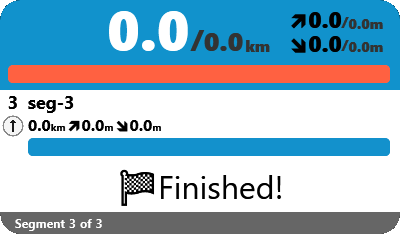
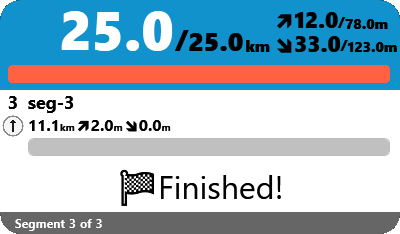
Improve screenshot for changelog

Changed region(s): [[0.06, 0.5085, 0.99, 0.688], [0.15, 0.0299, 1.0, 0.2393], [0.69, 0.0299, 0.99, 0.1496]]

diff --git a/test/RoadCaptain.Runner.Tests.Unit/Views/InGameWindowTests.cs b/test/RoadCaptain.Runner.Tests.Unit/Views/InGameWindowTests.cs
@@ -76,11 +76,17 @@ namespace RoadCaptain.Runner.Tests.Unit.Views
         //[StaFact]
         public void GivenRouteInLastSegment_PlaceholderIsVisible()
         {
+            var segment = new Segment(new List<TrackPoint>
+            {
+                new TrackPoint(1, 2, 3),
+                new TrackPoint(1, 2.1, 5)
+            }) { Id = "seg-3"};
+            segment.CalculateDistances();
             var segments = new List<Segment>
             {
                 new(new List<TrackPoint>()) { Id = "seg-1"},
                 new(new List<TrackPoint>()) { Id = "seg-2"},
-                new(new List<TrackPoint>()) { Id = "seg-3"},
+                segment,
             };
             var route = new PlannedRoute()
             {
@@ -106,6 +112,12 @@ namespace RoadCaptain.Runner.Tests.Unit.Views
                         ShowActivated = true,
                         DataContext = viewModel
                     };
+            viewModel.Model.TotalDescent = 123;
+            viewModel.Model.TotalAscent = 78;
+            viewModel.Model.TotalDistance = 25;
+            viewModel.Model.ElapsedDescent = 33;
+            viewModel.Model.ElapsedAscent = 12;
+            viewModel.Model.ElapsedDistance = 25;
 
             window.Show();
             window.Dispatcher.Invoke(() => { }, DispatcherPriority.SystemIdle);
@@ -115,7 +127,7 @@ namespace RoadCaptain.Runner.Tests.Unit.Views
             window.Dispatcher.Invoke(() => { }, DispatcherPriority.SystemIdle);
 
             route.EnteredSegment("seg-3");
-            viewModel.UpdateGameState(new OnRouteState(1, 2, new TrackPoint(1, 2, 3), segments[2], route));
+            viewModel.UpdateGameState(new OnRouteState(1, 2, new TrackPoint(1, 2, 3) { DistanceOnSegment = 12}, segments[2], route));
             window.Dispatcher.Invoke(() => { }, DispatcherPriority.SystemIdle);
             
             var windowContent = (window.Content as Grid);
